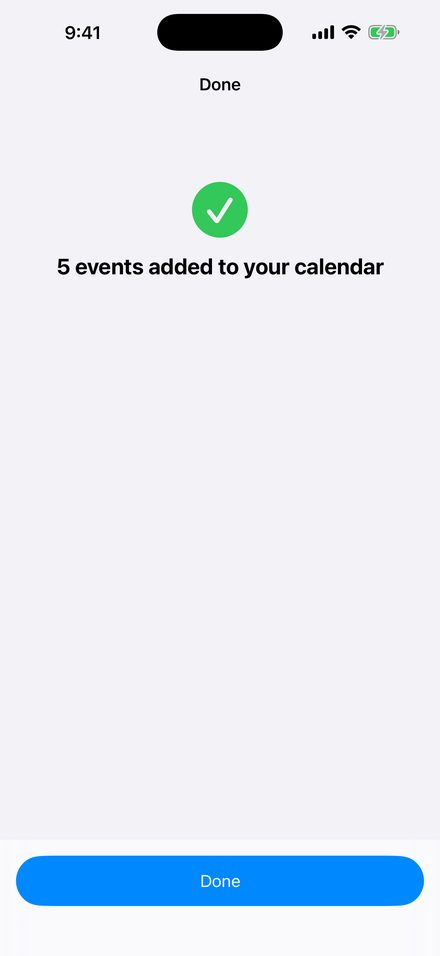
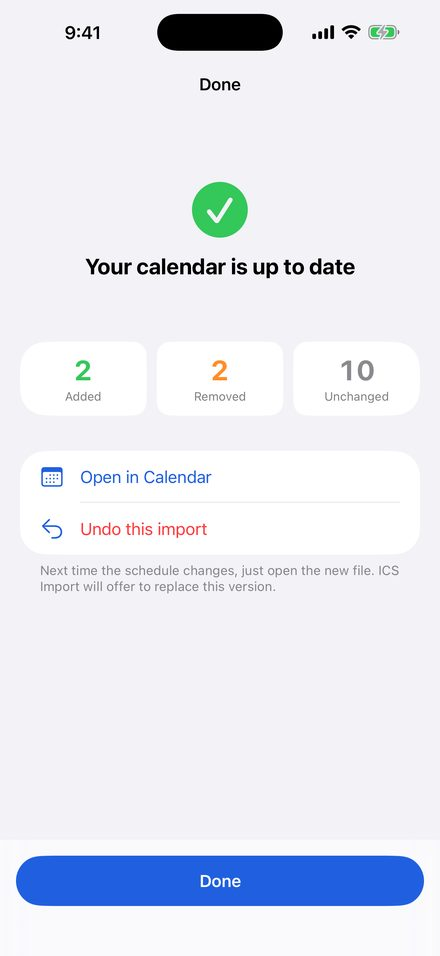
New app screenshots
Claude-Session: https://claude.ai/code/session_01PHuaLmyFBWtF1nWuvPvnTv

diff --git a/index.html b/index.html
@@ -18,8 +18,8 @@
 </header>
 <main>
 <div class="shots">
-<img src="img/list.jpg" width="440" height="956" alt="Event list from an .ics file with times, places and repeat rules">
-<img src="img/done.jpg" width="440" height="956" alt="Confirmation that the events were added to the calendar">
+<img src="img/list.jpg" width="440" height="956" alt="A new version of a roster: 1 new, 1 changed, 1 removed, 10 unchanged">
+<img src="img/done.jpg" width="440" height="956" alt="Calendar up to date, with Undo this import">
 </div>
 
 <h2>Replace, don't duplicate</h2>
